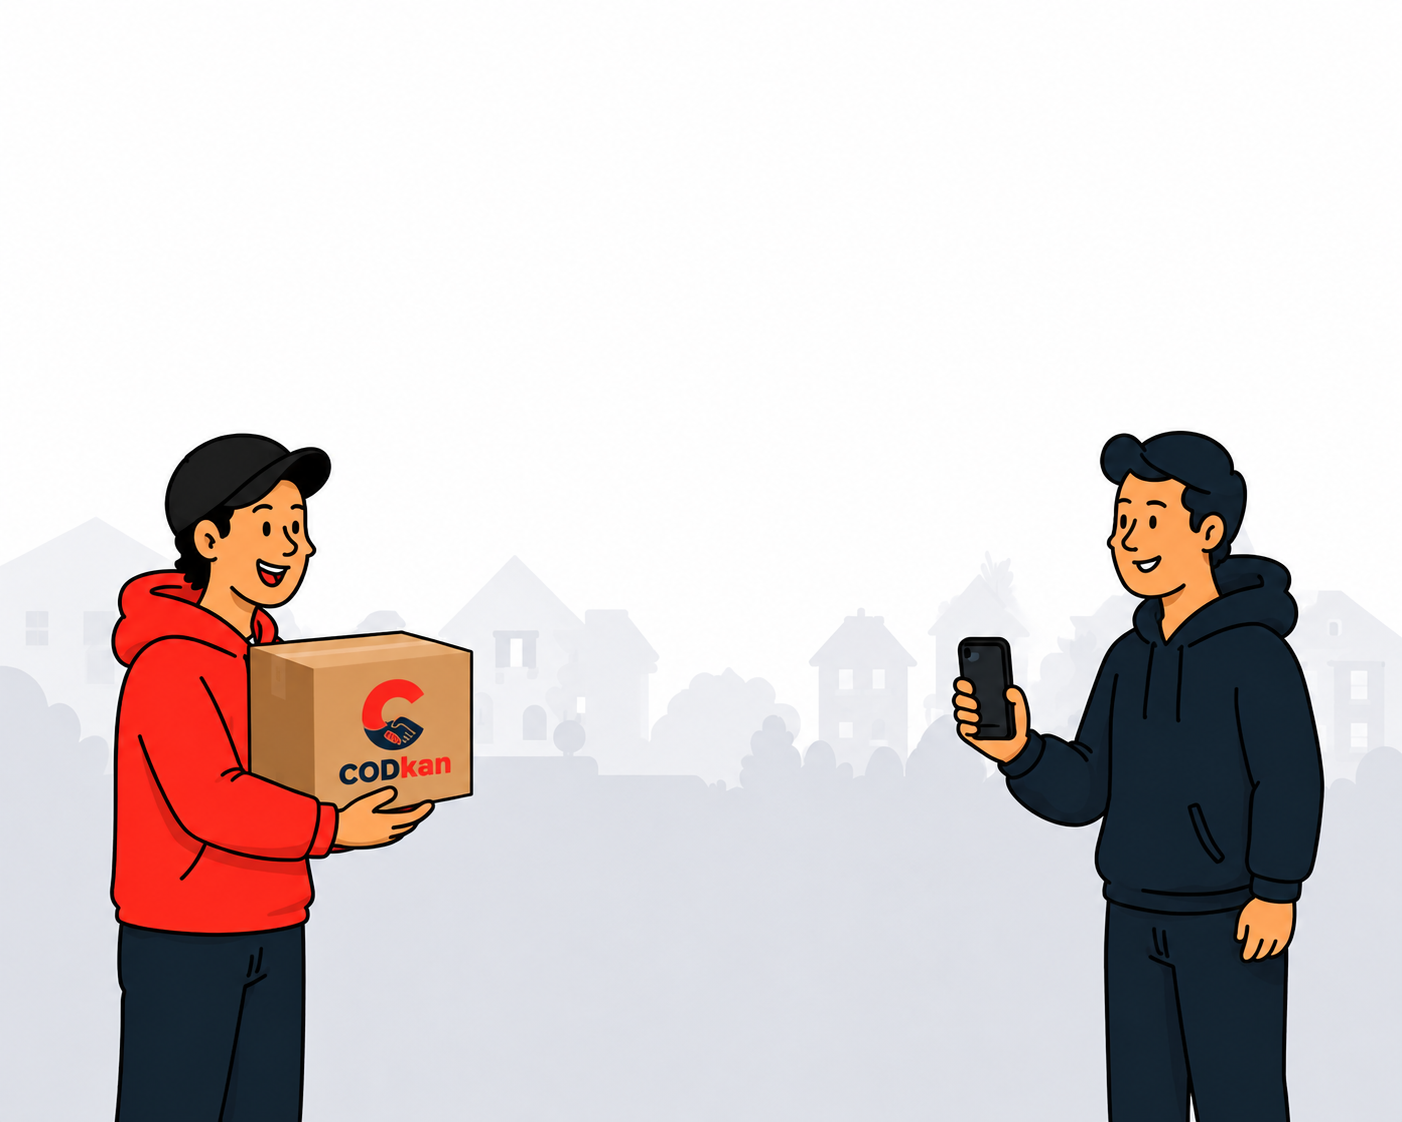
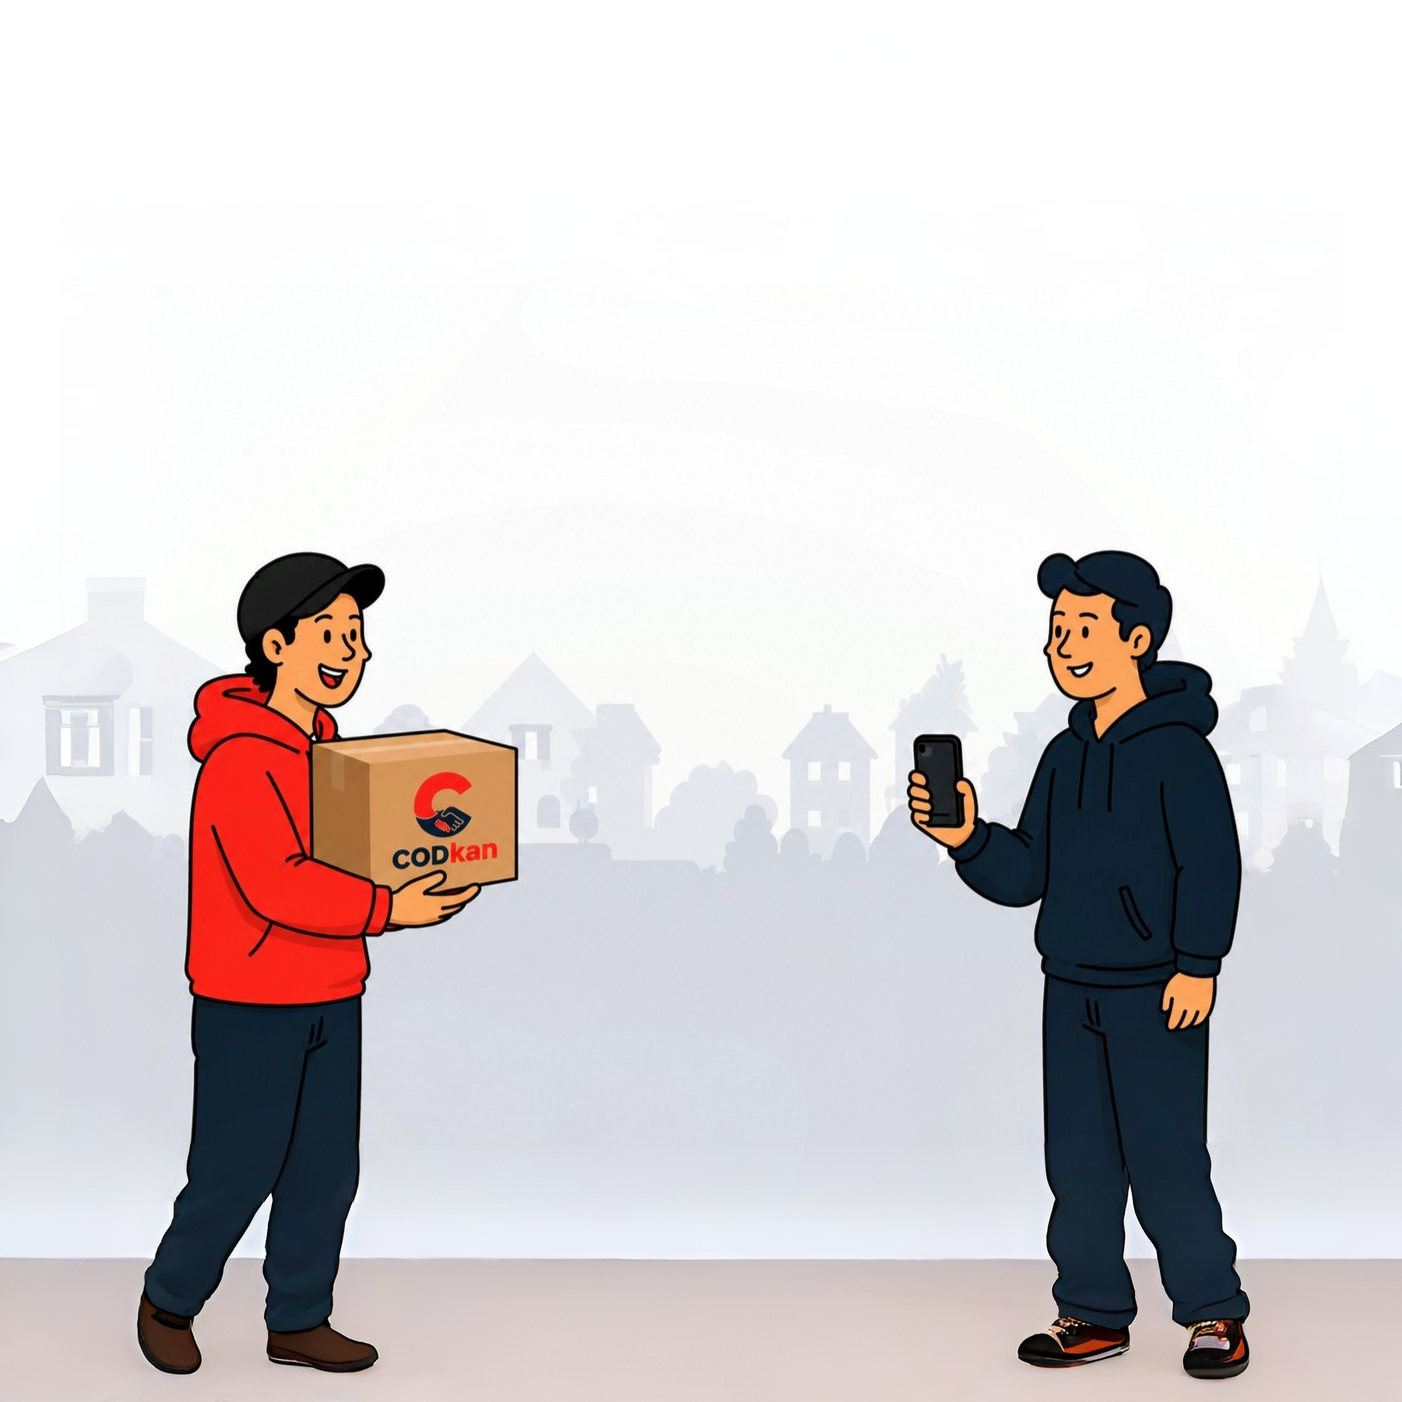
feat: update auth illustration and hide on sign-up page

Changed region(s): [[0.0, 0.3743, 1.0, 1.0]]

diff --git a/app/page.tsx b/app/page.tsx
@@ -102,7 +102,7 @@ function AuthScreen({busy,error,notice,onSubmit,onClear}:{busy:boolean;error:str
   return <main className={`auth-page auth-page--${mode}`}>
     <aside className="auth-brand">
       <img className="auth-wordmark" src="/brand/codkan-lockup.png" alt="CODkan — Ketemu, Tawar, Deal, COD"/>
-      <img className="auth-mascot" src="/brand/si-cod-paket.png" alt="Si COD membawa paket"/>
+      {mode==="signin"&&<img className="auth-mascot" src="/brand/si-cod-paket.png" alt="Si COD membawa paket"/>}
       <h1>{mode==="signin"?<>Ketemu.<br/>Tawar.<br/><em>Deal.</em></>:<>Daftar.<br/>Jual.<br/><em>COD.</em></>}</h1>
       <p>{mode==="signin"?"Masuk untuk menawar dengan aman dan melanjutkan Deal Room-mu.":"Buat akun untuk menjual, menawar, dan bertemu di tempat umum."}</p>
       <div><Icon name="shield" size={22}/><span><strong>Kontak tetap privat</strong><small>Nomor telepon hanya terbuka setelah deal disepakati.</small></span></div>
@@ -128,7 +128,7 @@ function AuthScreen({busy,error,notice,onSubmit,onClear}:{busy:boolean;error:str
         {mode==="signin"?<>Belum punya akun? <strong>Daftar sekarang</strong></>:<>Sudah punya akun? <strong>Masuk sekarang</strong></>}
       </button>
     </form>
-    <img className="auth-scene-mobile" src="/brand/cod-delivery-scene.png" alt="" aria-hidden="true"/>
+    {mode==="signin"&&<img className="auth-scene-mobile" src="/brand/cod-delivery-scene.png" alt="" aria-hidden="true"/>}
   </main>;
 }
 
